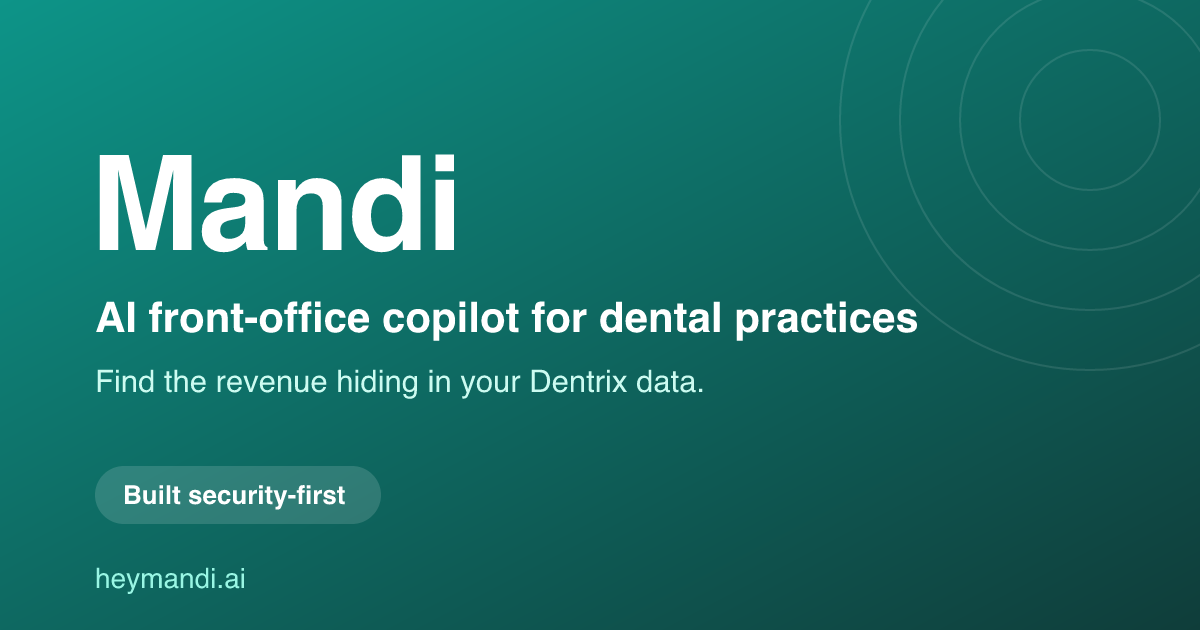
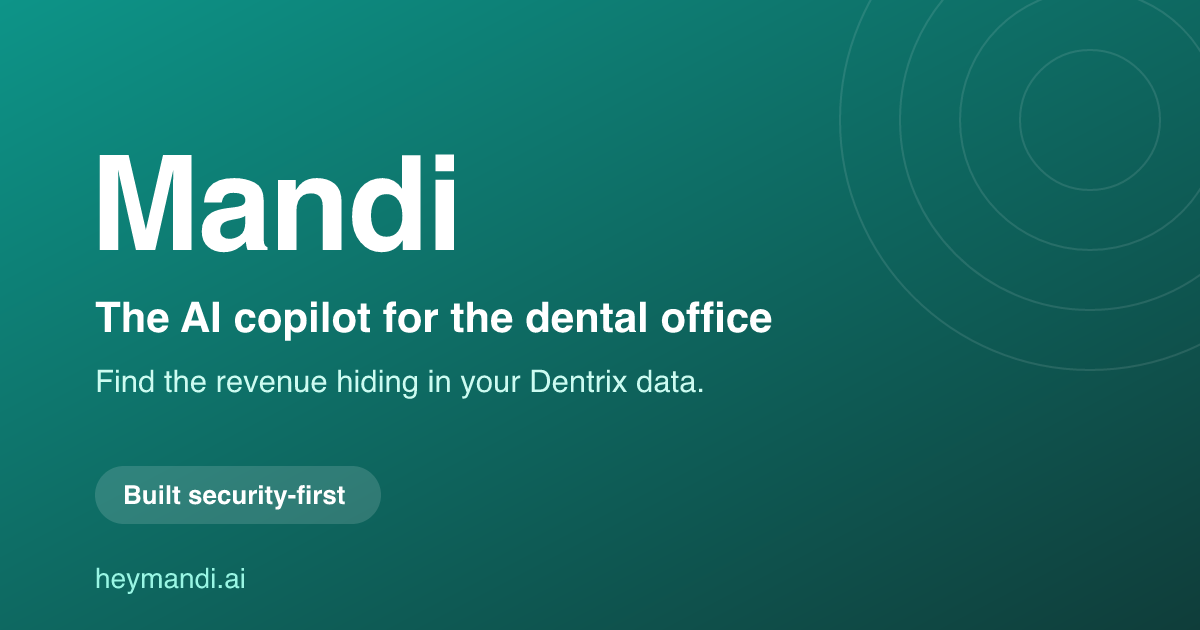
feat(web): reposition from "front office" to the whole dental office
Mandi serves both the front desk and the back office — all administrative
work for the practice — so the "front office" framing undersold the scope.
Reposition to "the AI copilot for the dental office" across titles, hero,
meta/JSON-LD descriptions, footer, the Dentrix/Features pages, and the OG
social card (regenerated). Descriptions now also call out back-office
opportunities alongside scheduling/recall. Literal "front desk" references
(the team) are left as-is where accurate.

Changed region(s): [[0.0617, 0.4524, 0.7708, 0.5429]]

diff --git a/artifacts/ayla-marketing/src/pages/Home.tsx b/artifacts/ayla-marketing/src/pages/Home.tsx
@@ -9,8 +9,8 @@ import { StaggerChildren, StaggerItem } from "@/components/animations";
 
 export default function Home() {
   useSEO({
-    title: "AI Front Office for Dental Practices",
-    fullTitleOverride: "Mandi | AI Front Office for Dental Practices",
+    title: "AI Copilot for the Dental Office",
+    fullTitleOverride: "Mandi | AI Copilot for the Dental Office",
     description: "See the revenue hiding in your Dentrix data. Mandi helps your dental front desk fill the schedule, recover unscheduled treatment, and grow.",
     path: "/",
     jsonLd: {
@@ -21,7 +21,7 @@ export default function Home() {
       operatingSystem: "Web",
       url: "https://heymandi.ai",
       description:
-        "AI front-office copilot for dental practices that finds unscheduled treatment, schedule gaps, and lapsed recall — and helps the team book it.",
+        "AI copilot for the dental office that finds unscheduled treatment, schedule gaps, lapsed recall, and back-office opportunities — and helps the team act on them.",
       publisher: { "@type": "Organization", name: "Mandi" },
     },
   });
@@ -46,10 +46,10 @@ export default function Home() {
               className="max-w-2xl"
             >
               <span className="inline-block py-1 px-3 rounded-full bg-[#ccfbf1] text-[#0f766e] text-sm font-semibold mb-6">
-                AI for the dental front office
+                AI for the entire dental office
               </span>
               <h1 className="text-5xl md:text-6xl font-bold tracking-tight text-[#0f172a] mb-5 leading-tight">
-                The AI front-office copilot for dental practices
+                The AI copilot for the dental office
               </h1>
               <p className="text-2xl md:text-3xl font-bold text-[#0f172a] mb-5 leading-snug">
                 Your practice is leaving <span className="text-[#0d9488]">$145,000</span> on the table. Mandi finds it.

diff --git a/artifacts/ayla-marketing/index.html b/artifacts/ayla-marketing/index.html
@@ -3,7 +3,7 @@
   <head>
     <meta charset="UTF-8" />
     <meta name="viewport" content="width=device-width, initial-scale=1.0, maximum-scale=1" />
-    <title>Mandi | AI Front Office for Dental Practices</title>
+    <title>Mandi | AI Copilot for the Dental Office</title>
     <meta name="description" content="See the revenue hiding in your Dentrix data. Mandi helps your dental front desk fill the schedule, recover unscheduled treatment, and grow." />
     <meta name="robots" content="index, follow" />
 
@@ -21,7 +21,7 @@
     </script>
 
     <!-- Open Graph -->
-    <meta property="og:title" content="Mandi | AI Front Office for Dental Practices" />
+    <meta property="og:title" content="Mandi | AI Copilot for the Dental Office" />
     <meta property="og:description" content="See the revenue hiding in your Dentrix data. Mandi helps your dental front desk fill the schedule, recover unscheduled treatment, and grow." />
     <meta property="og:type" content="website" />
     <meta property="og:url" content="https://heymandi.ai" />
@@ -30,7 +30,7 @@
 
     <!-- Twitter Card -->
     <meta name="twitter:card" content="summary_large_image" />
-    <meta name="twitter:title" content="Mandi | AI Front Office for Dental Practices" />
+    <meta name="twitter:title" content="Mandi | AI Copilot for the Dental Office" />
     <meta name="twitter:description" content="See the revenue hiding in your Dentrix data. Mandi helps your dental front desk fill the schedule, recover unscheduled treatment, and grow." />
     <meta name="twitter:image" content="https://heymandi.ai/opengraph.png" />
 
@@ -45,7 +45,7 @@
         "name": "Mandi",
         "url": "https://heymandi.ai",
         "logo": "https://heymandi.ai/logo-primary.svg",
-        "description": "AI front-office copilot for dental practices that finds unscheduled treatment, schedule gaps, and lapsed recall.",
+        "description": "AI copilot for the dental office that finds unscheduled treatment, schedule gaps, lapsed recall, and back-office opportunities.",
         "contactPoint": {
           "@type": "ContactPoint",
           "email": "[email redacted]",

diff --git a/artifacts/ayla-marketing/src/pages/Dentrix.tsx b/artifacts/ayla-marketing/src/pages/Dentrix.tsx
@@ -37,10 +37,10 @@ const steps = [
 
 export default function Dentrix() {
   useSEO({
-    title: "Dentrix Analytics & AI Front Office",
-    fullTitleOverride: "Dentrix Analytics & AI Front Office | Mandi",
+    title: "Dentrix Analytics & AI Office Copilot",
+    fullTitleOverride: "Dentrix Analytics & AI Office Copilot | Mandi",
     description:
-      "Turn your Dentrix data into a fuller schedule. Mandi adds AI analytics and front-office automation on top of Dentrix — no manual reporting.",
+      "Turn your Dentrix data into a fuller schedule. Mandi adds AI analytics and office automation on top of Dentrix — no manual reporting.",
     path: "/dentrix",
   });
 
@@ -57,7 +57,7 @@ export default function Dentrix() {
           </h1>
           <p className="text-lg md:text-xl text-[#334155] max-w-2xl mx-auto mb-8 leading-relaxed">
             You already have everything you need to grow — it's sitting in Dentrix. Mandi is the AI
-            front-office copilot that reads your Dentrix data, finds the production you're missing, and
+            office copilot that reads your Dentrix data, finds the production you're missing, and
             helps your team book it.
           </p>
           <div className="flex flex-col sm:flex-row gap-4 justify-center">

diff --git a/artifacts/ayla-marketing/src/pages/Features.tsx b/artifacts/ayla-marketing/src/pages/Features.tsx
@@ -9,7 +9,7 @@ import { StaggerChildren, StaggerItem } from "@/components/animations";
 export default function Features() {
   useSEO({
     title: "Features",
-    fullTitleOverride: "Features | Mandi Dental Front Office Software",
+    fullTitleOverride: "Features | Mandi Dental Office Software",
     description: "Fill schedule gaps, recover unscheduled treatment, reactivate recall, and spot insurance that hurts collections — all from your Dentrix data.",
     path: "/features",
   });
@@ -37,7 +37,7 @@ export default function Features() {
         <div className="container mx-auto max-w-4xl">
           <h1 className="text-4xl md:text-5xl font-bold text-[#0f172a] mb-6">Everything your front desk needs to grow the practice</h1>
           <p className="text-xl text-[#334155] max-w-2xl mx-auto">
-            Dental front office software that finds, prioritizes, and schedules the hidden revenue in your practice — built on your Dentrix data.
+            Dental office software that finds, prioritizes, and schedules the hidden revenue in your practice — built on your Dentrix data.
           </p>
         </div>
       </section>

diff --git a/artifacts/ayla-marketing/src/components/Layout.tsx b/artifacts/ayla-marketing/src/components/Layout.tsx
@@ -132,7 +132,7 @@ export function Layout({ children }: { children: React.ReactNode }) {
             <div className="md:col-span-1 space-y-4">
               <Logo />
               <p className="text-sm text-muted-foreground">
-                AI copilot for dental front offices. Find the revenue hiding in your practice.
+                The AI copilot for the whole dental office. Find the revenue hiding in your practice.
               </p>
             </div>
 

diff --git a/artifacts/ayla-marketing/src/entry-server.tsx b/artifacts/ayla-marketing/src/entry-server.tsx
@@ -41,7 +41,7 @@ export interface RenderedPage {
 export function render(path: string): RenderedPage {
   const html = renderToString(<App ssrPath={path} />);
   const seo = takeSeo();
-  const title = seo?.title ?? "AI Front Office for Dental Practices";
+  const title = seo?.title ?? "AI Copilot for the Dental Office";
   return {
     html,
     fullTitle: seo?.fullTitleOverride ?? `${title} — ${SITE_NAME}`,

diff --git a/artifacts/ayla-marketing/src/pages/Resources.tsx b/artifacts/ayla-marketing/src/pages/Resources.tsx
@@ -25,7 +25,7 @@ export default function Resources() {
         <div className="container mx-auto max-w-2xl">
           <h1 className="text-4xl md:text-5xl font-bold text-[#0f172a] mb-4">Dental practice growth resources</h1>
           <p className="text-lg text-[#64748b]">
-            Practical guides for practice owners and front office teams — from the Mandi team.
+            Practical guides for practice owners and office teams — from the Mandi team.
           </p>
         </div>
       </section>